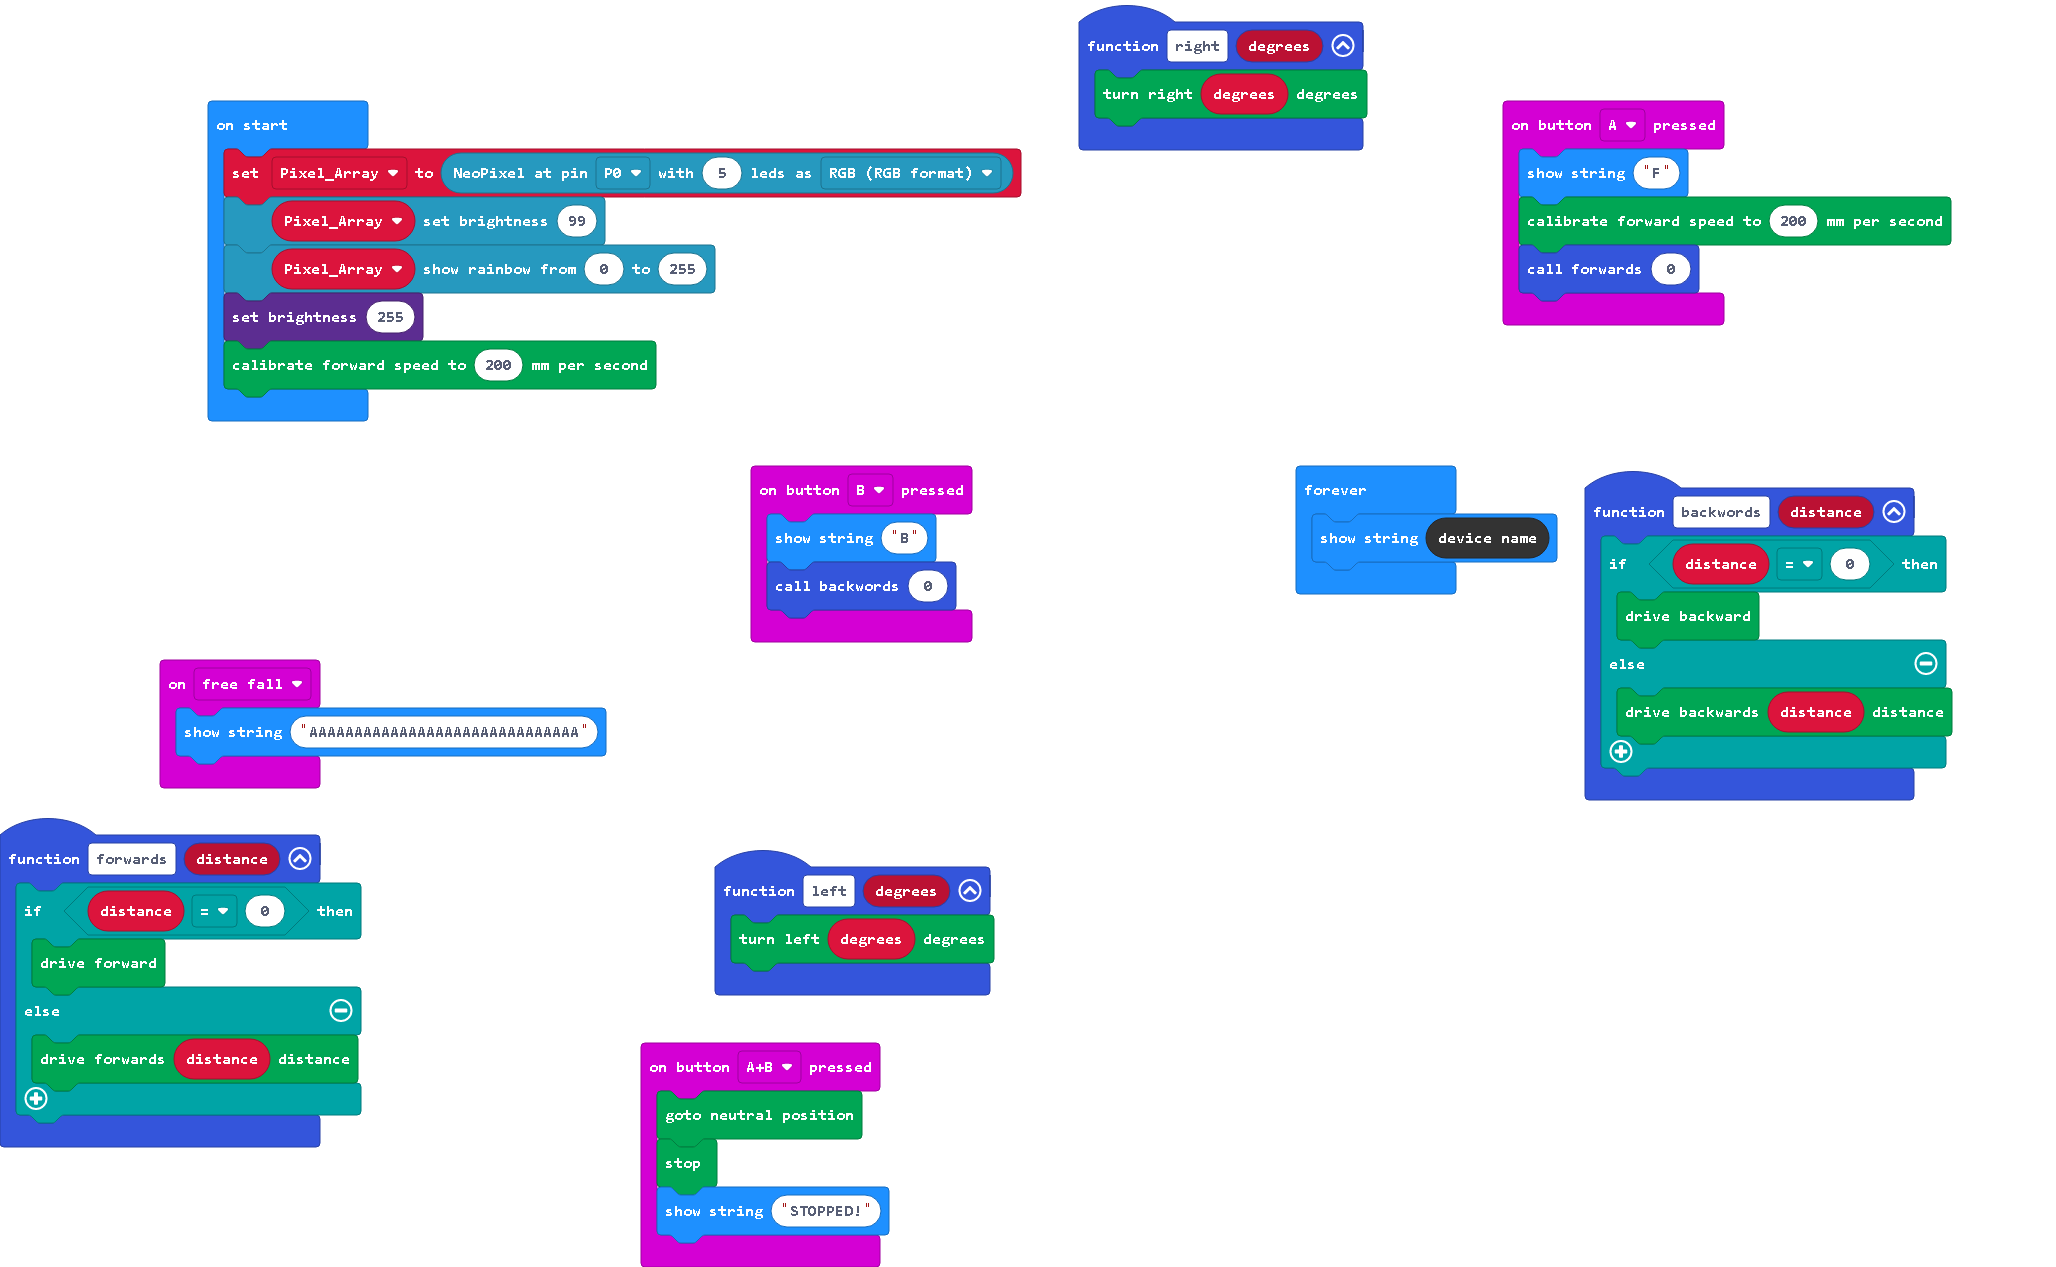
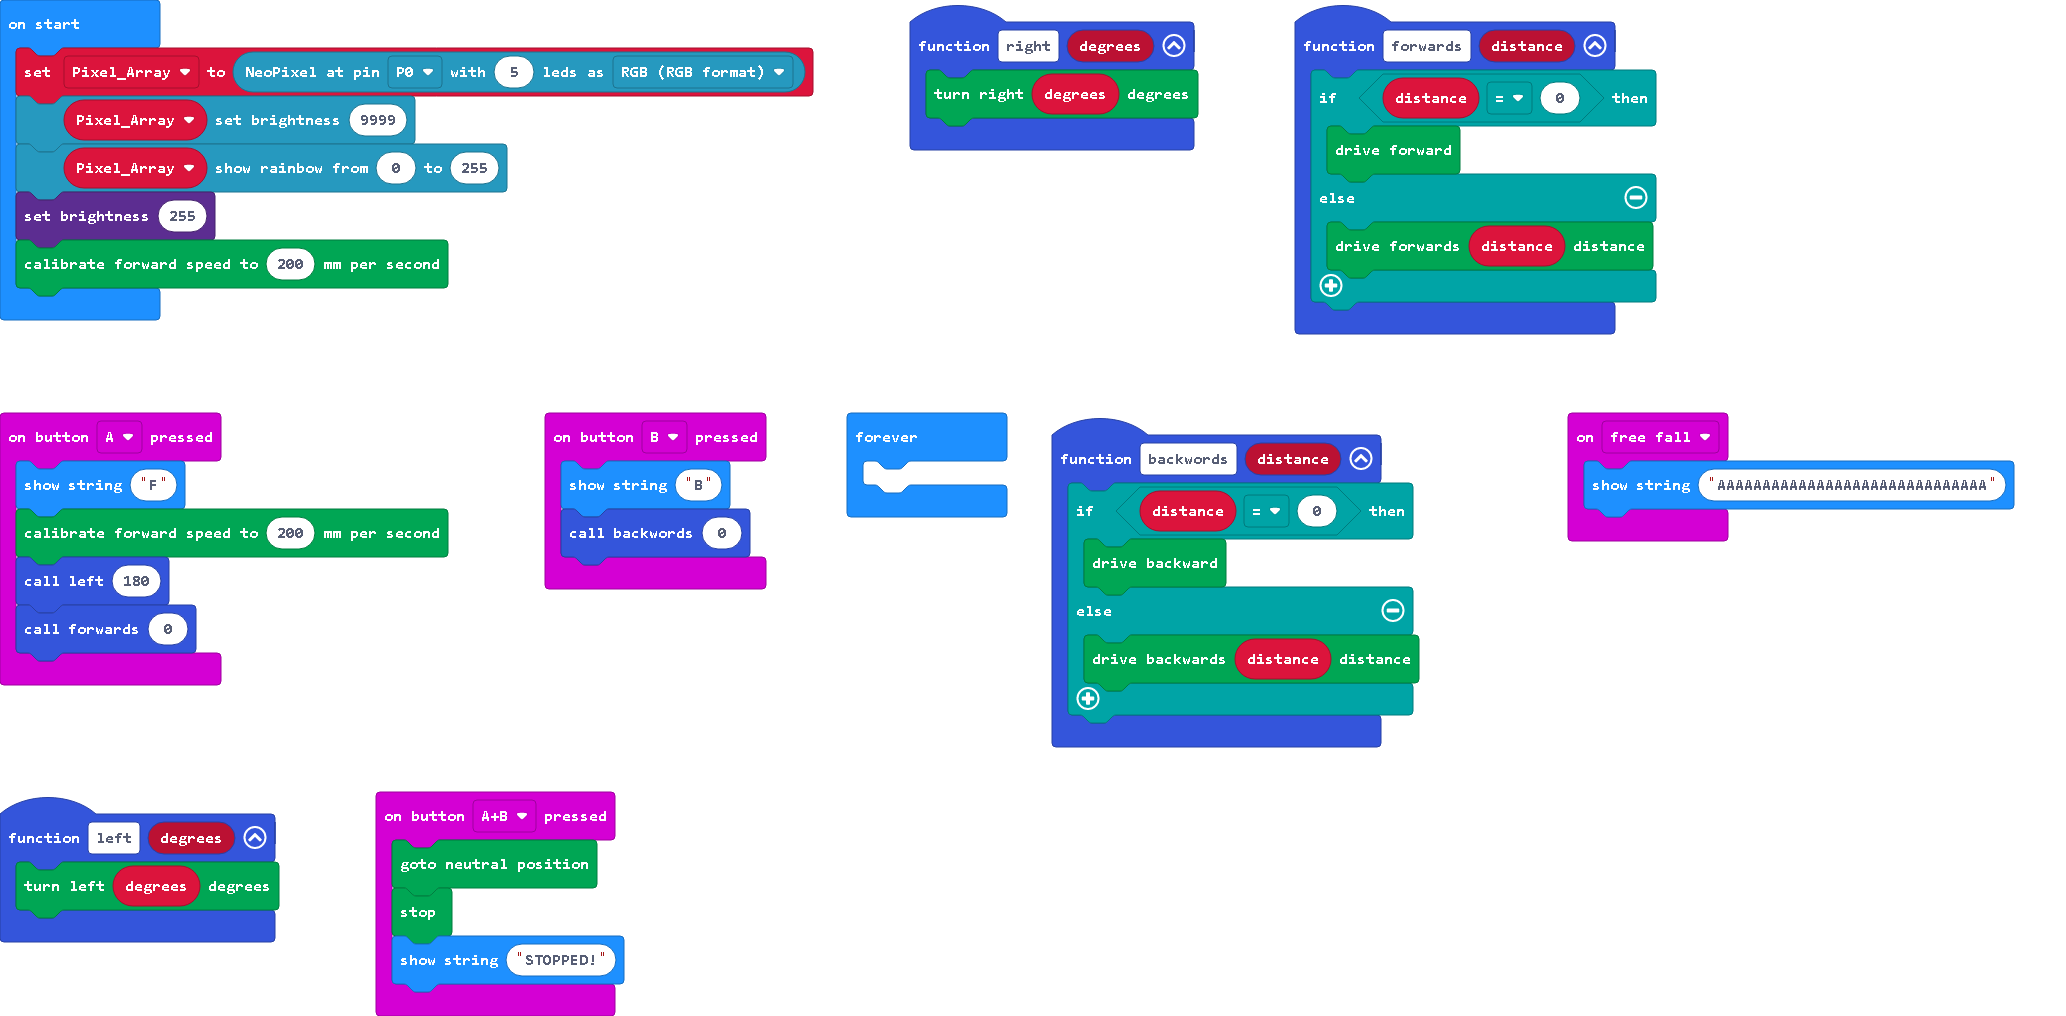
Update main.blocks, main.ts, main.py

diff --git a/main.ts b/main.ts
@@ -7,6 +7,7 @@ function left (degrees: number) {
 input.onButtonPressed(Button.A, function () {
     basic.showString("F")
     kitronik_servo_lite.setDistancePerSecond(200)
+    left(180)
     forwards(0)
 })
 input.onGesture(Gesture.FreeFall, function () {
@@ -36,10 +37,10 @@ function forwards (distance: number) {
     }
 }
 let Pixel_Array = neopixel.create(DigitalPin.P0, 5, NeoPixelMode.RGB_RGB)
-Pixel_Array.setBrightness(99)
+Pixel_Array.setBrightness(9999)
 Pixel_Array.showRainbow(0, 255)
 led.setBrightness(255)
 kitronik_servo_lite.setDistancePerSecond(200)
 basic.forever(function () {
-    basic.showString(control.deviceName())
+	
 })

diff --git a/main.py b/main.py
@@ -6,7 +6,6 @@ def left(degrees: number):
 def on_button_pressed_a():
     basic.show_string("F")
     kitronik_servo_lite.set_distance_per_second(200)
-    left(90)
     forwards(0)
 input.on_button_pressed(Button.A, on_button_pressed_a)
 
@@ -41,11 +40,8 @@ Pixel_Array.set_brightness(99)
 Pixel_Array.show_rainbow(0, 255)
 led.set_brightness(255)
 kitronik_servo_lite.set_distance_per_second(200)
-# forwards(300)
-# basic.pause(1000)
-# basic.show_icon(IconNames.HEART)
-# basic.pause(1000)
+kitronik_servo_lite.set_degrees_per_second(180)
 
 def on_forever():
-    basic.show_string(control.device_name())
+    pass
 basic.forever(on_forever)
